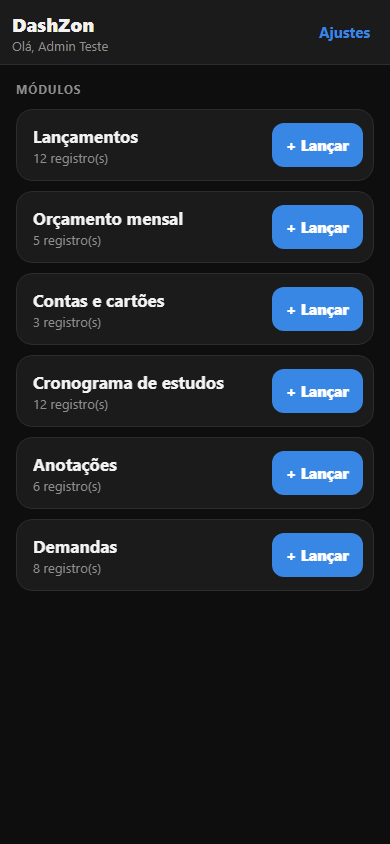
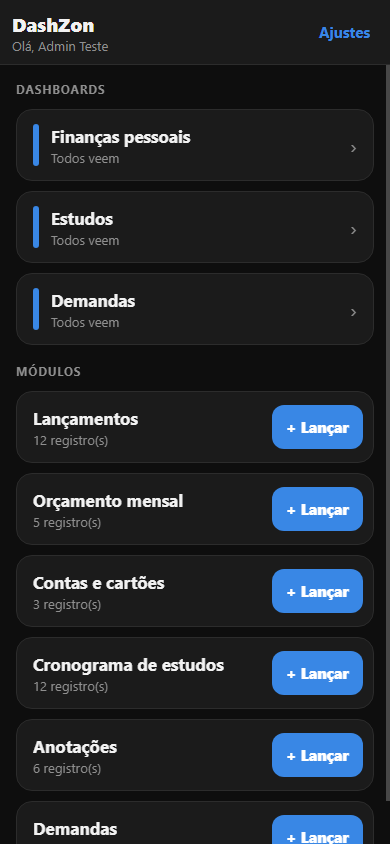
docs: app de celular parte 2 (dashboards, lembretes, testes) no Sistema.md, Log.md e READMEs

diff --git a/prototipos/mobile/README.md b/prototipos/mobile/README.md
@@ -1,23 +1,26 @@
-# DashZon no celular (React Native / Expo), parte 1
+# DashZon no celular (React Native / Expo)
 
 App de celular do DashZon, para Android e iPhone, feito com [Expo](https://expo.dev) (SDK 58, React Native 0.88). É um protótipo: o frontend oficial continua em `frontend/`.
 
 - **Lógica:** a de `prototipos/core` (`@dashzon/core`), a mesma dos protótipos web: formatação, fórmulas dos cards (cópia da do oficial), temas.
 - **Backend:** a API Ruby de sempre, sem mudança. O app não manda `Origin` e o cookie da sessão fica guardado no aparelho, então o login funciona como na web.
 
-## O que tem (parte 1)
+## O que tem
 
 | Tela | O que faz |
 |---|---|
 | Entrar | Endereço do servidor (fica guardado), usuário e senha |
-| Início | Os módulos do seu menu, na ordem da conta, com "+ Lançar" em cada um |
+| Início | Os dashboards e os módulos do seu menu, na ordem da conta, com "+ Lançar" em cada módulo |
+| Dashboard (parte 2) | Os cards empilhados na ordem salva, números lado a lado; número, meta, tabela, barras, linha, rosca e calendário; tocar num grupo, fatia ou dia mostra o valor; puxar para atualizar |
 | Módulo | Resumo, busca, registros em cartões, puxar para atualizar, "Carregar mais" e botão "+" |
 | Lançar / editar | Formulário pela estrutura do módulo: teclado numérico (aceita vírgula), Hoje/Ontem nas datas, opções em botões, sim/não em interruptor, excluir com confirmação |
-| Ajustes | Os temas da conta (inclusive Floresta dia, tarde e noite) e sair |
+| Ajustes | Os temas da conta (inclusive Floresta dia, tarde e noite), o lembrete diário (parte 2) e sair |
+
+**Lembrete diário (parte 2):** notificação do próprio aparelho, sem servidor, no horário e no módulo escolhidos; tocar nela abre o formulário daquele módulo. Funciona no Expo Go no Android (notificações locais); na web não existe.
 
 Também: botão voltar do Android, área segura da tela (entalhe e barra de gestos), alvos de toque de 44 px e rótulos para o leitor de tela (`aria-*`).
 
-**Ainda não tem:** dashboards com gráficos, notas, aprovações, painel do adm.
+**Ainda não tem:** notas, aprovações, painel do adm, editar cards.
 
 ## Rodar no celular (desenvolvimento)
 
@@ -34,15 +37,42 @@ Também: botão voltar do Android, área segura da tela (entalhe e barra de gest
 
 Para instalar dependências novas, use `npx expo install <pacote>`: ele escolhe as versões compatíveis com o SDK.
 
-## Testar no navegador
-
-O mesmo código roda na web (React Native Web), o que serve para testes automáticos:
+## Testes (`testes/`)
 
 ```powershell
-npx expo export --platform web     # gera dist/
+npm run teste            # tudo: unidade, export web e 2 rodadas de ponta a ponta com a instância zerada
+npm run teste:unidade    # só os testes de unidade (Node)
+npm run teste:web        # só o ponta a ponta, numa instância de teste já no ar e NÃO configurada
+npm run teste:servir     # o app web com /api repassada (para olhar no navegador)
 ```
 
-Sirva `dist/` com um proxy que repasse `/api` para a instância de teste, trocando o `Origin` pelo do backend (como faz o `vite.config.js` dos protótipos). Na web, o app fala com a mesma origem e não pede o endereço do servidor.
+O `npm run teste` chama `testes/rodar-testes.ps1`, que aceita `-Rodadas 1`, `-SemExport`, `-SoUnidade`, `-Porta` e `-Banco`. Ele recusa a porta 4567 e o `dashzon.db`: os testes nunca encostam no banco real.
+
+| Arquivo | O que faz |
+|---|---|
+| `parametros.mjs` | Os parâmetros dos testes, num lugar só (tabela abaixo) |
+| `unidade.test.mjs` | Formatos (datas, números, endereço, hora), temas e cores, e os dados dos cards: ordem, séries, empilhar, 15 grupos, tabela, rosca, meta do mês, calendário |
+| `e2e-web.mjs` | O app de verdade num Chromium headless com tela de celular: entrar, dashboards, tocar no gráfico, módulo, busca, lançar com "123,45", editar, erro do servidor, excluir, tema, sair. Em cada tela confere rolagem lateral, alvos de toque e valores cortados |
+| `servir-web.mjs` | Serve `dist/` e repassa `/api` para a instância, trocando o `Origin` pelo do backend |
+| `rodar-testes.ps1` | Orquestra tudo; prints e resultado em `testes/resultados/` (fora do git) |
+
+**Parâmetros** (cada um troca por variável de ambiente, sem mexer no código):
+
+| Parâmetro | Variável | Padrão |
+|---|---|---|
+| Instância de teste | `DASHZON_TESTE_API` | `http://127.0.0.1:4581` (banco `data/teste-mobile.db`) |
+| Porta do app web | `DASHZON_TESTE_PORTA` | `8090` |
+| Conta criada no setup | `DASHZON_TESTE_USUARIO`, `DASHZON_TESTE_SENHA` | `admin`, `Prototipo-2026!` |
+| Templates do setup | `DASHZON_TESTE_TEMPLATES` | `financas-pessoais,cronograma-estudos,gestao-demandas` |
+| Telas testadas | `DASHZON_TESTE_TELAS` | `390x844,360x740` (a primeira roda o roteiro inteiro) |
+| Alvo de toque mínimo | `DASHZON_TESTE_ALVO` | `44` (px) |
+| Navegador | `NAVEGADOR` | Edge, Chrome ou o Chrome do Puppeteer |
+| Porta do DevTools | `DASHZON_TESTE_CDP` | `9360` |
+| Pasta dos prints | `DASHZON_TESTE_SAIDA` | `testes/resultados/<data>` |
+
+Exemplo: `$env:DASHZON_TESTE_TELAS = "320x640,412x915"; npm run teste`.
+
+**O que os testes não cobrem:** o aparelho de verdade. O ponta a ponta usa a versão web (React Native Web). As notificações só existem no celular: aqui elas são conferidas apenas até o empacotamento para Android (`npx expo export --platform android`); **falta testar num aparelho** (Expo Go), assim como o resto do app.
 
 ## Estrutura
 
@@ -50,7 +80,12 @@ Sirva `dist/` com um proxy que repasse `/api` para a instância de teste, trocan
 App.js              sessão, navegação (pilha), voltar do Android, avisos
 src/sessao.js       endereço do servidor, API (@dashzon/core) e tema da conta
 src/componentes.js  botão, campo, chip, aviso, confirmação, cabeçalho
-src/telas/          Entrar, Inicio, Modulo, Formulario, Ajustes
+src/formatos.js     datas, números, endereço e hora (sem React Native: testável no Node)
+src/graficos.js     dados de cada card (a lógica do Card.jsx, sem React Native)
+src/cards.js        o desenho dos cards (react-native-svg)
+src/lembretes.js    o lembrete diário (expo-notifications)
+src/telas/          Entrar, Inicio, Dashboard, Modulo, Formulario, Ajustes
+testes/             testes de unidade e de ponta a ponta, com parâmetros
 metro.config.js     faz o Metro enxergar ../core
 ```
 

diff --git a/Sistema.md b/Sistema.md
@@ -409,7 +409,7 @@ Experimento, fora do frontend oficial (que continua sem build e sem CDN, §12.6)
 | `ui` (`@dashzon/ui`) | Telas web compartilhadas (reexporta o `core`; `logica.js` só acrescenta as cores lidas do CSS): `Telas.jsx` (login, moldura com barra lateral, dashboard, tema), `Registros.jsx` (tela do módulo e formulário de registro), `Base.jsx` (ícones SVG, avisos, janela `<dialog>`, confirmação), `Card.jsx` (número, meta, barras, linha, pizza, tabela, calendário com `react-chartjs-2`), `logica.js` (cópia de `valorDe`, `formatador`, `ordenar`, cores, `opcoesDe`, `resolverToken`) e `estilo.css` (tokens do DashZon) |
 | `react` | Vite + React 19: rotas por `#hash`; proxy `/api` no `vite.config.js` |
 | `next` | Next.js 15 (App Router): `/entrar` e o grupo `(app)` (`/`, `/d/[id]`, `/m/[slug]`), cujo `layout.jsx` é a moldura e fica montado entre as rotas (sessão em `contexto.js`); proxy em `app/api/[...caminho]/route.js` |
-| `mobile` | App de celular em React Native (Expo SDK 58, RN 0.88), fora dos workspaces (o React Native exige versões exatas do React); usa o `core` por `file:../core` e o Metro observa `../core`. Parte 1: entrar (endereço do servidor guardado), módulos do menu, registros (busca, cartões, puxar para atualizar), lançar/editar/excluir pelo schema, temas da conta. Fala com a API Ruby sem mudança: o app não manda `Origin` (o `Seguranca::Protecao` deixa passar e exige a sessão) e o cookie fica no aparelho. Precisa do servidor em HTTPS. Acessibilidade com as propriedades `aria-*` (o `accessibilityState` antigo o React Native Web ignora) |
+| `mobile` | App de celular em React Native (Expo SDK 58, RN 0.88), fora dos workspaces (o React Native exige versões exatas do React); usa o `core` por `file:../core` e o Metro observa `../core`. Parte 1: entrar (endereço do servidor guardado), módulos do menu, registros (busca, cartões, puxar para atualizar), lançar/editar/excluir pelo schema, temas da conta. Parte 2: dashboards (`src/graficos.js` com a lógica do `Card.jsx`, sem React Native; desenho em `react-native-svg`, cards na ordem `y*12 + x`, número/meta estreitos lado a lado) e lembrete diário local (`expo-notifications`, canal no Android, tocar abre o formulário). Testes em `mobile/testes/`: `unidade.test.mjs` (Node), `e2e-web.mjs` (Chromium a 390 e 360 px; só em instância não configurada; confere rolagem, alvos de 44 px e valores cortados), parâmetros em `parametros.mjs` (variáveis `DASHZON_TESTE_*`), tudo por `rodar-testes.ps1` (instância 4581, `data/teste-mobile.db`, recusa 4567 e o banco real). Fala com a API Ruby sem mudança: o app não manda `Origin` (o `Seguranca::Protecao` deixa passar e exige a sessão) e o cookie fica no aparelho. Precisa do servidor em HTTPS. Acessibilidade com as propriedades `aria-*` (o `accessibilityState` antigo o React Native Web ignora) |
 
 - **O que fazem:**
   - **Registros:** resumo, busca (300 ms depois da última tecla, resposta atrasada descartada), até 4 filtros, checklist (`PATCH` só do campo, desfeito se falhar), "Carregar mais", criar/editar/excluir. O formulário sai do schema como no oficial (padrões `$hoje`, opção removida mantida, erro 422 no formulário), "Editar" lê o registro do banco, e o 202 do visualizador vira aviso.

diff --git a/prototipos/README.md b/prototipos/README.md
@@ -83,11 +83,16 @@ Para usar outra instância: `$env:DASHZON_API = "http://127.0.0.1:4567"` antes d
 
 ## App de celular
 
-Em `mobile/` (como rodar no celular com o Expo Go: `mobile/README.md`). A **parte 1** cobre o uso mais forte no celular, que é lançar e consultar: entrar, módulos do menu, registros com busca, lançar, editar e excluir, e os temas da conta.
+Em `mobile/` (como rodar no celular com o Expo Go e os testes com parâmetros: `mobile/README.md`).
+
+- **Parte 1:** entrar, módulos do menu, registros com busca, lançar, editar e excluir, e os temas da conta.
+- **Parte 2:** dashboards no celular (cards empilhados na ordem salva, gráficos em SVG com toque para ver o valor) e lembrete diário no aparelho; testes em `mobile/testes/` (unidade e ponta a ponta, parâmetros por variável de ambiente).
 
 | Tela | Print |
 |---|---|
-| Início com "+ Lançar" | `mobile-inicio.png` (Floresta noite: `mobile-inicio-floresta-noite.png`) |
+| Início com dashboards e "+ Lançar" | `mobile-inicio.png` (Floresta noite: `mobile-inicio-floresta-noite.png`) |
+| Dashboard Finanças (e tocando num grupo) | `mobile-dashboard-financas.png`, `mobile-dashboard-grupo.png` (Floresta noite: `mobile-dashboard-floresta-noite.png`) |
+| Dashboard Estudos: calendário e meta | `mobile-dashboard-estudos.png` |
 | Módulo: resumo e registros em cartões | `mobile-modulo.png` |
 | Lançar | `mobile-formulario.png` |
 | Excluir com confirmação | `mobile-confirmar.png` |
@@ -99,8 +104,7 @@ Em `mobile/` (como rodar no celular com o Expo Go: `mobile/README.md`). A **part
 
 | Possibilidade | Para quê |
 |---|---|
-| Dashboards no celular | Ver os cards (números, metas, gráficos, calendário) empilhados, na ordem salva |
-| Lembretes no aparelho | Avisar a hora da sessão de estudo, conta a vencer ou meta do mês, sem servidor (notificações locais) |
+| Mais lembretes no aparelho | Além do diário (parte 2): conta a vencer, sessão de estudo marcada, meta do mês |
 | Entrar com digital ou rosto | Reabrir o app sem digitar a senha (a sessão continua no servidor) |
 | Lançar sem internet | Guardar o lançamento no aparelho e enviar quando a conexão voltar |
 | Atalho "Lançar gasto" | Pelo ícone do app (toque longo), direto no formulário |

diff --git a/Log.md b/Log.md
@@ -6,6 +6,21 @@ Como registrar: uma entrada por entrega (um ou mais commits), com data, branch, 
 
 ---
 
+## 2026-10-22 · `desenvolvimento-mobile-parte-2` · App de celular: dashboards, lembretes e testes com parâmetros
+
+**O que:**
+- **Dashboards no celular:** lista no Início e tela do dashboard com os cards empilhados na ordem salva, números e metas estreitos lado a lado; número, meta, tabela, barras, linha, rosca e calendário em SVG; tocar num grupo, fatia ou dia mostra o valor; cada gráfico tem um resumo em texto. Os dados vêm de `src/graficos.js`, com a lógica do `Card.jsx` (que copia a do oficial).
+- **Lembrete diário** (notificação do aparelho, sem servidor): horário e módulo escolhidos em Ajustes; tocar abre o formulário do módulo.
+- **Testes em `prototipos/mobile/testes/`**, com parâmetros por variável de ambiente (`DASHZON_TESTE_*`): 16 testes de unidade no Node e o ponta a ponta no Chromium (14 passos) em 390 e 360 px, que confere rolagem lateral, alvos de toque e valores cortados; `npm run teste` faz tudo em 2 rodadas com a instância de teste zerada (porta 4581) e recusa o banco real.
+
+**Problemas no caminho** (`desenvolvimento.md`): números grandes cortados nos cards de meia largura (o encolhimento automático do React Native não existe na web), eixo do gráfico espremido pela rolagem lateral e fonte serifada no SVG da web; o Chrome de uma rodada ainda fechando bloqueava a próxima. Todos corrigidos; a checagem de valores cortados entrou no teste.
+
+**Validação:** `npm run teste` com 16/16 de unidade e 14/14 de ponta a ponta nas duas rodadas; empacotamento para Android. **Não testado num aparelho de verdade**, inclusive as notificações.
+
+**Por quê:** pedido de adicionar a parte 2 sugerida (dashboards e lembretes) e de criar parâmetros de teste dentro da pasta do React Native.
+
+---
+
 ## 2026-10-22 · `desenvolvimento-mobile` (vira `desenvolvimento-mobile-parte-1`) · App de celular em React Native, parte 1
 
 **O que:**
